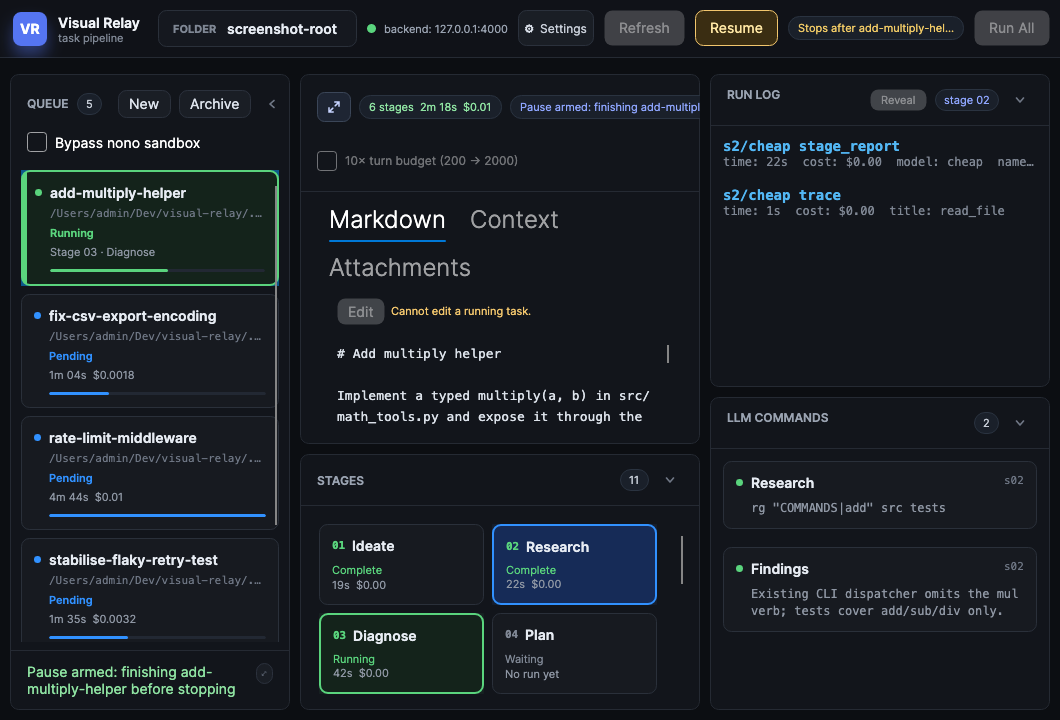
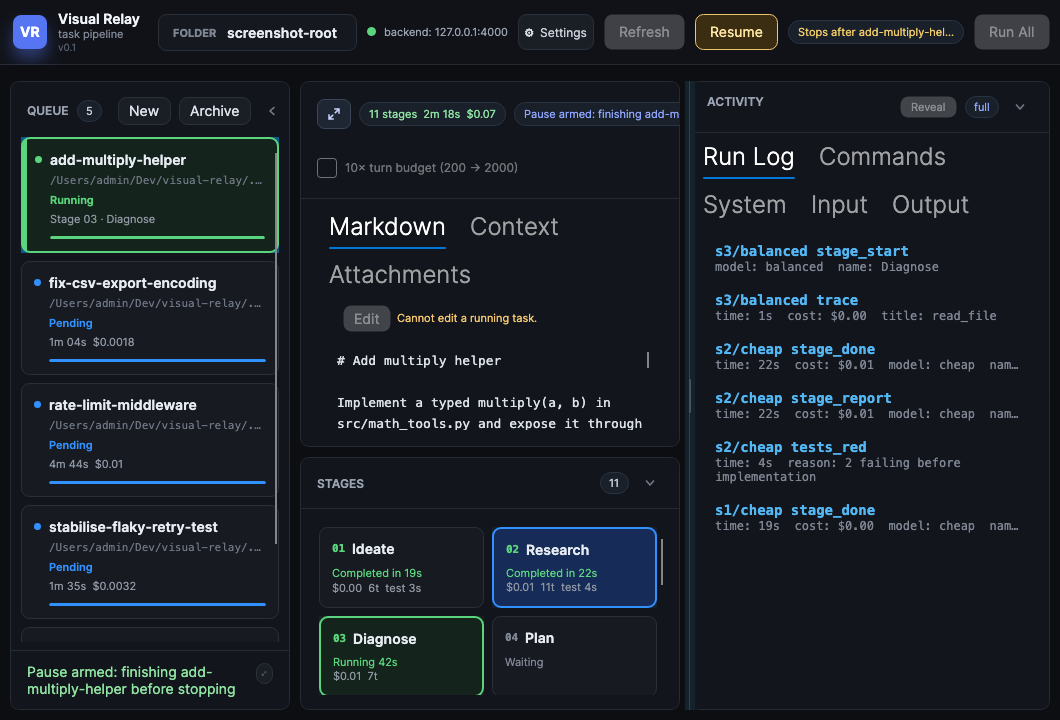
docs: refresh readme screenshots from current ui
- seed the activity run-log tab and stage board so the panel renders populated

- isolate the screenshot config dir so the render is deterministic

diff --git a/tools/VisualRelay.Screenshots/Program.cs b/tools/VisualRelay.Screenshots/Program.cs
@@ -13,13 +13,43 @@ var width = args.Length > 1 ? double.Parse(args[1]) : 1440;
 var height = args.Length > 2 ? double.Parse(args[2]) : 900;
 Directory.CreateDirectory(Path.GetDirectoryName(output)!);
 
+// Redirect XDG_CONFIG_HOME into the screenshot scratch root BEFORE the view-model
+// is built. UiStateStore.Load (called in the MainWindowViewModel ctor) otherwise
+// reads the developer's real ~/.config/visual-relay/ui-state.json — which made the
+// rendered tab/column-width depend on whatever layout that machine last persisted
+// (e.g. a collapsed-to-minimum activity column on an empty Output tab). Isolating it
+// makes the screenshot deterministic and stops the tool from clobbering real state.
+var scratchRoot = Path.GetFullPath(Path.Combine(".relay-scratch", "screenshot-root"));
+Directory.CreateDirectory(scratchRoot);
+Environment.SetEnvironmentVariable("XDG_CONFIG_HOME", Path.Combine(scratchRoot, ".config"));
+
+// The selected task's markdown, held as a literal so SeedActivity can restore it
+// post-Show without re-reading the file — selecting the task promotes it to the
+// nested layout, which deletes the flat llm-tasks/<id>.md path.
+const string demoTaskMarkdown =
+    """
+    # Add multiply helper
+
+    Implement a typed multiply(a, b) in src/math_tools.py and expose it through the CLI dispatcher so users can run relay calc mul 6 7.
+
+    ## Requirements
+
+    - Mirror the existing add() helper signature and docstring style.
+    - Register the verb in COMMANDS and update the --help table.
+    - Cover ints, floats and overflow in tests/test_math_tools.py.
+
+    ## Run
+
+    relay run add-multiply
+    """;
+
 // ReSharper disable once UseAwaitUsing — one-shot screenshot tool; the headless
 // Avalonia session is torn down synchronously at process exit. Sync dispose keeps
 // the dispatcher-shutdown ordering simple and avoids async-teardown surprises.
 using var session = HeadlessUnitTestSession.StartNew(typeof(ScreenshotAppBuilder));
 await session.Dispatch(async () =>
 {
-    var viewModel = BuildViewModel();
+    var viewModel = BuildViewModel(scratchRoot, demoTaskMarkdown);
     var window = new MainWindow
     {
         DataContext = viewModel,
@@ -28,7 +58,7 @@ await session.Dispatch(async () =>
     };
     window.Show();
     await Task.Delay(100);
-    SeedTraceEntries(viewModel);
+    SeedActivity(viewModel, demoTaskMarkdown);
     var frame = window.CaptureRenderedFrame();
     if (frame is null)
     {
@@ -42,9 +72,8 @@ await session.Dispatch(async () =>
 Console.WriteLine(output);
 Environment.Exit(0);
 
-static MainWindowViewModel BuildViewModel()
+static MainWindowViewModel BuildViewModel(string root, string demoTaskMarkdown)
 {
-    var root = Path.GetFullPath(Path.Combine(".relay-scratch", "screenshot-root"));
     Directory.CreateDirectory(Path.Combine(root, ".relay"));
     Directory.CreateDirectory(Path.Combine(root, "llm-tasks"));
     File.WriteAllText(
@@ -55,63 +84,62 @@ static MainWindowViewModel BuildViewModel()
           "logSources": ["logs/app.log"]
         }
         """);
-    var taskPath = WriteTask(
-        root,
-        "add-multiply-helper",
-        """
-        # Add multiply helper
-
-        Implement a typed multiply(a, b) in src/math_tools.py and expose it through the CLI dispatcher so users can run relay calc mul 6 7.
-
-        ## Requirements
-
-        - Mirror the existing add() helper signature and docstring style.
-        - Register the verb in COMMANDS and update the --help table.
-        - Cover ints, floats and overflow in tests/test_math_tools.py.
-
-        ## Run
-
-        relay run add-multiply
-        """);
+    var taskPath = WriteTask(root, "add-multiply-helper", demoTaskMarkdown);
 
     var viewModel = new MainWindowViewModel
     {
         RootPath = root,
         StatusText = "Pause armed: finishing add-multiply-helper before stopping",
-        SelectedTaskMetricLabel = "6 stages  2m 18s  $0.01",
-        LogScopeLabel = "stage 02",
+        SelectedTaskMetricLabel = "11 stages  2m 18s  $0.07",
+        LogScopeLabel = "full",
         IsBusy = true,
-        PauseRequested = true
+        PauseRequested = true,
+        // Pin the activity panel to the populated Run Log tab at a comfortable
+        // width so the screenshot never inherits a stale/collapsed layout.
+        ActivityTabIndex = 0,
+        ActivityColumnWidth = 360
     };
     var task = new TaskRowViewModel(
-        new RelayTaskItem("add-multiply-helper", taskPath, Path.GetDirectoryName(taskPath)!, false, [], CostUsd: 0.0064, DurationSeconds: 138, CompletedStageCount: 6));
+        new RelayTaskItem("add-multiply-helper", taskPath, Path.GetDirectoryName(taskPath)!, false, [], CostUsd: 0.0731, DurationSeconds: 138, CompletedStageCount: 11));
     viewModel.Tasks.Add(task);
-    viewModel.Tasks.Add(DemoTask(root, "fix-csv-export-encoding", costUsd: 0.0018, seconds: 64, stages: 3));
+    viewModel.Tasks.Add(DemoTask(root, "fix-csv-export-encoding", costUsd: 0.0018, seconds: 64, stages: 11));
     viewModel.Tasks.Add(DemoTask(root, "rate-limit-middleware", costUsd: 0.0121, seconds: 284, stages: 11));
-    viewModel.Tasks.Add(DemoTask(root, "stabilise-flaky-retry-test", costUsd: 0.0032, seconds: 95, stages: 4));
+    viewModel.Tasks.Add(DemoTask(root, "stabilise-flaky-retry-test", costUsd: 0.0032, seconds: 95, stages: 11));
     viewModel.Tasks.Add(DemoTask(root, "extract-theme-tokens", "swival exit 2", costUsd: 0.0009, seconds: 31, stages: 2));
     viewModel.RestoreRunningTaskState(task.Id, 3, "Diagnose");
+    // Setting SelectedTask kicks off an async load that resets the stage board and
+    // reads markdown/context/run-history from the (empty) scratch project. The
+    // dynamic display state is therefore applied AFTER Show()+settle in SeedActivity,
+    // so it wins over that load instead of racing it.
     viewModel.SelectedTask = task;
-    viewModel.SelectedTaskMarkdown = File.ReadAllText(taskPath);
-    viewModel.SelectedTaskContext = "### logs/app.log\n12:04:41 [plan] 3 edits planned across 3 files\n13:08:54 [implement] stage complete in 28s";
-
-    viewModel.Stages[0].Status = "Done";
-    viewModel.Stages[1].Status = "Done";
-    viewModel.Stages[2].Status = "Running";
-    viewModel.Stages[0].DurationLabel = "19s";
-    viewModel.Stages[0].CostLabel = "$0.00";
-    viewModel.Stages[1].DurationLabel = "22s";
-    viewModel.Stages[1].CostLabel = "$0.00";
-    viewModel.Stages[2].DurationLabel = "42s";
-    viewModel.Stages[2].CostLabel = "$0.00";
-    viewModel.Stages[1].IsSelected = true;
-    viewModel.Events.Add(new RelayEvent(DateTimeOffset.UtcNow, "info", "stage_report", "demo", root, task.Id, 2, "cheap",
-        Data: new Dictionary<string, string> { ["name"] = "Research", ["model"] = "cheap", ["time"] = "22s", ["cost"] = "$0.00" }));
-    viewModel.Events.Add(new RelayEvent(DateTimeOffset.UtcNow.AddSeconds(-12), "info", "stage_done", "demo", root, task.Id, 2, "cheap",
-        Data: new Dictionary<string, string> { ["name"] = "Research", ["model"] = "cheap", ["time"] = "22s", ["cost"] = "$0.00" }));
-    viewModel.Events.Add(new RelayEvent(DateTimeOffset.UtcNow.AddSeconds(-28), "info", "tests_written", "demo", root, task.Id, 5, "balanced"));
-    viewModel.Events.Add(new RelayEvent(DateTimeOffset.UtcNow.AddSeconds(-36), "info", "plan_accepted", "demo", root, task.Id, 4, "balanced"));
     return viewModel;
+}
+
+// Seeds the stage board so its cards exercise the current status-row + metrics
+// layout: a Done card reads "Completed in 19s" with a "cost  turns  test" metric
+// line, and the active card ticks "Running {elapsed}".
+static void SeedStages(MainWindowViewModel viewModel)
+{
+    ApplyDoneStage(viewModel.Stages[0], "19s", "$0.00", "6t", 3);   // Ideate
+    ApplyDoneStage(viewModel.Stages[1], "22s", "$0.01", "11t", 4);  // Research
+    viewModel.Stages[1].IsSelected = true;
+
+    // Mark Diagnose running ~42s ago so the status row shows the live "Running 42s"
+    // tick (StatusLabel reads MarkRunning's elapsed, not the DurationLabel).
+    var diagnose = viewModel.Stages[2];
+    diagnose.MarkRunning(DateTimeOffset.UtcNow.AddSeconds(-42));
+    diagnose.RefreshElapsed(DateTimeOffset.UtcNow);
+    diagnose.CostLabel = "$0.01";
+    diagnose.TurnsLabel = "7t";
+}
+
+static void ApplyDoneStage(StageRowViewModel stage, string duration, string cost, string turns, double testSeconds)
+{
+    stage.DurationLabel = duration;
+    stage.CostLabel = cost;
+    stage.TurnsLabel = turns;
+    stage.SetTestDurationSeconds(testSeconds);
+    stage.Status = "Done";
 }
 
 static string WriteTask(string root, string id, string markdown)
@@ -127,33 +155,35 @@ static TaskRowViewModel DemoTask(string root, string id, string? reviewReason = 
     return new TaskRowViewModel(new RelayTaskItem(id, path, Path.GetDirectoryName(path)!, false, [], reviewReason, CostUsd: costUsd, DurationSeconds: seconds, CompletedStageCount: stages));
 }
 
-static void SeedTraceEntries(MainWindowViewModel viewModel)
+// Applies the dynamic display state AFTER the window is shown and the SelectedTask
+// load has settled, so it wins over that load: the selected-task metric chip, the
+// markdown/context detail, the stage board, and the Activity column's default Run
+// Log tab (stage lifecycle events with model/time/cost data plus the Commands-tab
+// trace entries) — so the right-hand panel reads as active, not empty.
+static void SeedActivity(MainWindowViewModel viewModel, string demoTaskMarkdown)
 {
-    viewModel.SelectedTaskMetricLabel = "6 stages  2m 18s  $0.01";
-    viewModel.LogScopeLabel = "stage 02";
-    foreach (var stage in viewModel.Stages)
-    {
-        stage.IsSelected = false;
-    }
-
-    viewModel.Stages[0].Status = "Done";
-    viewModel.Stages[0].DurationLabel = "19s";
-    viewModel.Stages[0].CostLabel = "$0.00";
-    viewModel.Stages[1].Status = "Done";
-    viewModel.Stages[1].DurationLabel = "22s";
-    viewModel.Stages[1].CostLabel = "$0.00";
-    viewModel.Stages[2].Status = "Running";
-    viewModel.Stages[2].DurationLabel = "42s";
-    viewModel.Stages[2].CostLabel = "$0.00";
-    viewModel.Stages[1].IsSelected = true;
-
+    var now = DateTimeOffset.UtcNow;
     var root = viewModel.RootPath;
     var taskId = viewModel.SelectedTask?.Id ?? "add-multiply-helper";
+
+    viewModel.SelectedTaskMetricLabel = "11 stages  2m 18s  $0.07";
+    viewModel.SelectedTaskMarkdown = demoTaskMarkdown;
+    viewModel.SelectedTaskContext = "### logs/app.log\n12:04:41 [plan] 3 edits planned across 3 files\n13:08:54 [implement] stage complete in 28s";
+    SeedStages(viewModel);
+
     viewModel.Events.Clear();
-    viewModel.Events.Add(new RelayEvent(DateTimeOffset.UtcNow, "info", "stage_report", "demo", root, taskId, 2, "cheap",
-        Data: new Dictionary<string, string> { ["name"] = "Research", ["model"] = "cheap", ["time"] = "22s", ["cost"] = "$0.00" }));
-    viewModel.Events.Add(new RelayEvent(DateTimeOffset.UtcNow.AddSeconds(-12), "info", "trace", "demo", root, taskId, 2, "cheap",
+    viewModel.Events.Add(new RelayEvent(now.AddSeconds(-2), "info", "stage_start", "demo", root, taskId, 3, "balanced",
+        Data: new Dictionary<string, string> { ["name"] = "Diagnose", ["model"] = "balanced" }));
+    viewModel.Events.Add(new RelayEvent(now.AddSeconds(-7), "info", "trace", "demo", root, taskId, 3, "balanced",
         Data: new Dictionary<string, string> { ["title"] = "read_file", ["time"] = "1s", ["cost"] = "$0.00" }));
+    viewModel.Events.Add(new RelayEvent(now.AddSeconds(-22), "info", "stage_done", "demo", root, taskId, 2, "cheap",
+        Data: new Dictionary<string, string> { ["name"] = "Research", ["model"] = "cheap", ["time"] = "22s", ["cost"] = "$0.01" }));
+    viewModel.Events.Add(new RelayEvent(now.AddSeconds(-24), "info", "stage_report", "demo", root, taskId, 2, "cheap",
+        Data: new Dictionary<string, string> { ["name"] = "Research", ["model"] = "cheap", ["time"] = "22s", ["cost"] = "$0.01" }));
+    viewModel.Events.Add(new RelayEvent(now.AddSeconds(-30), "warn", "tests_red", "demo", root, taskId, 2, "cheap",
+        Data: new Dictionary<string, string> { ["reason"] = "2 failing before implementation", ["time"] = "4s" }));
+    viewModel.Events.Add(new RelayEvent(now.AddSeconds(-45), "info", "stage_done", "demo", root, taskId, 1, "cheap",
+        Data: new Dictionary<string, string> { ["name"] = "Ideate", ["model"] = "cheap", ["time"] = "19s", ["cost"] = "$0.00" }));
 
     viewModel.TraceEntries.Clear();
     viewModel.TraceEntries.Add(new TraceEntry(TraceEntryKind.ToolCall, "Research", "rg \"COMMANDS|add\" src tests", 2));